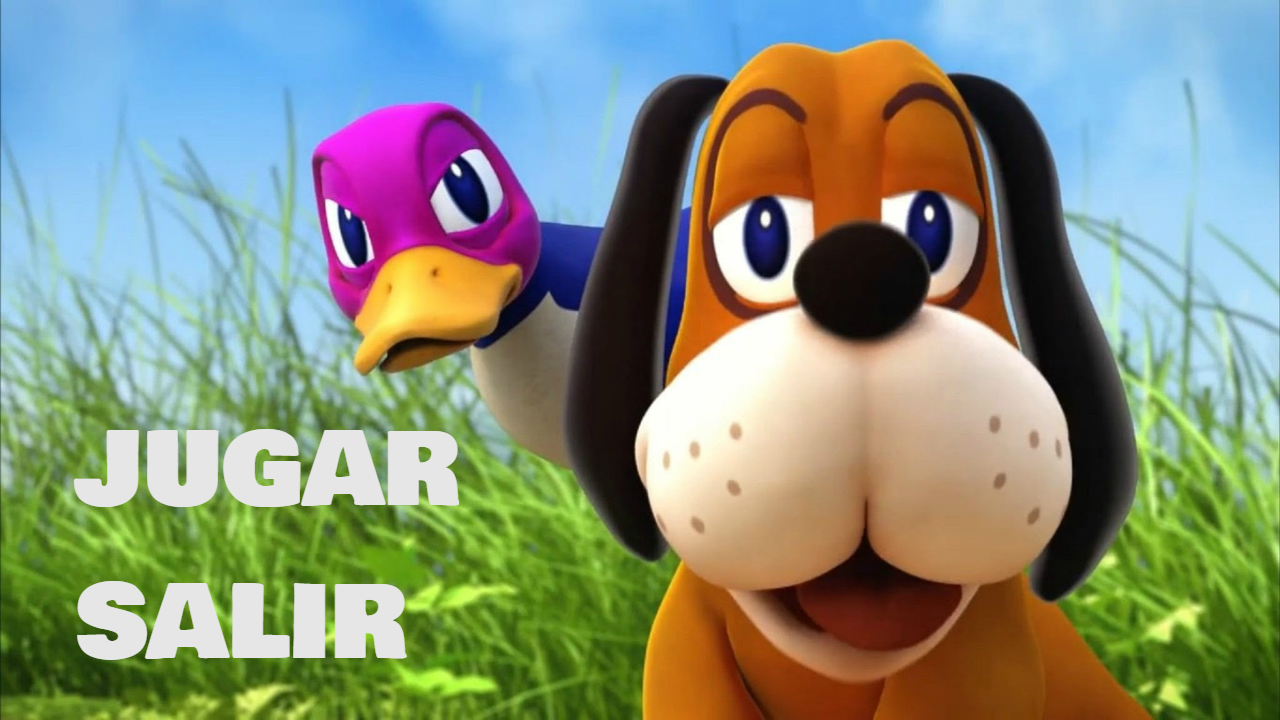
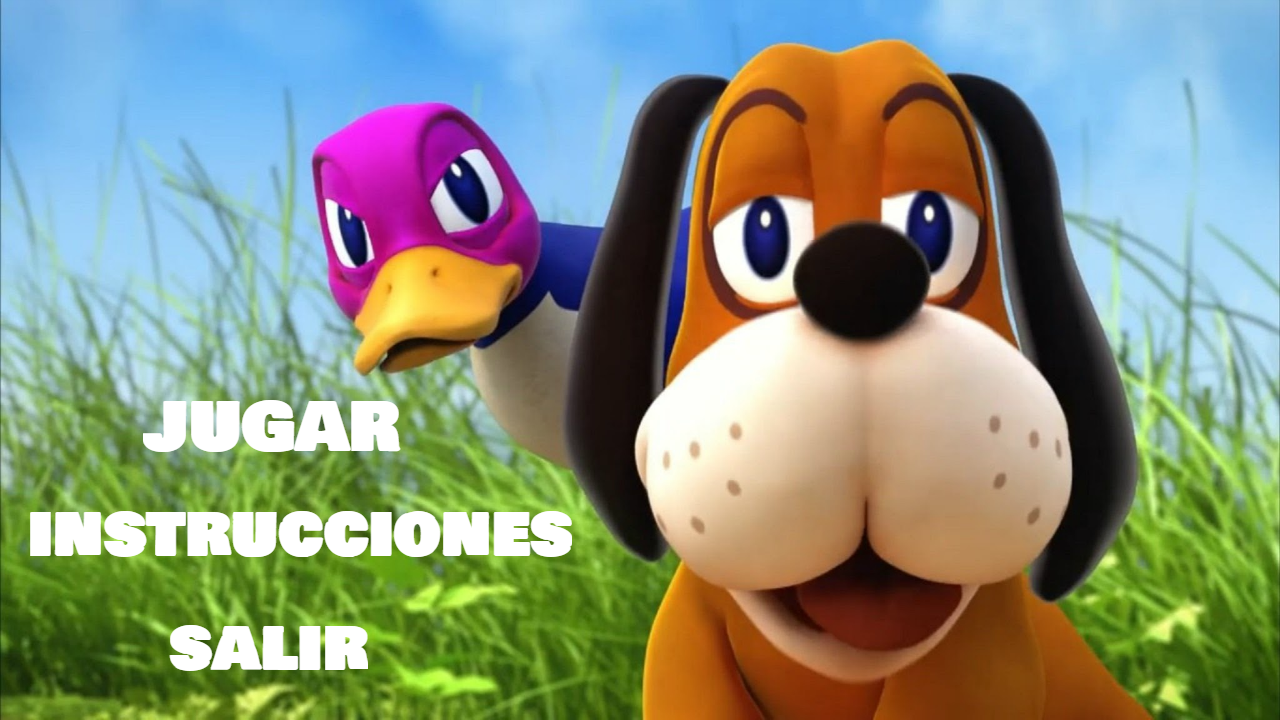
cambios mayores
ingreso de imagenes. Panel de instrucciones y panel para ingresar datos del jugador

Changed region(s): [[0.0, 0.55, 0.4688, 0.9472]]

diff --git a/proyectoJuego/src/main/java/views/MainFrame.java b/proyectoJuego/src/main/java/views/MainFrame.java
@@ -10,9 +10,13 @@ public class MainFrame extends JFrame implements GameListener
     private static final Dimension FRAMESIZE = new Dimension(1280, 720);
     private static final String ESCTOGOBACK = "pressEscape";
 
+    //Object of some classes.
     private Menu menuPanel;
+    private boolean playerDataEntry = false;
     private Game gamePanel;
-    private GoBackToMenu goBackAction;
+    private Player playerPanel;
+    private Instructions instructionsPanel;
+    private GoBackToMenu goBack; 
     public MainFrame()
     {
         initFrame();
@@ -34,36 +38,86 @@ public class MainFrame extends JFrame implements GameListener
         this.pack();
         this.setSize(FRAMESIZE);
         this.setLocationRelativeTo(null);
+        
         menuPanel = new Menu();
-        goBackAction = new GoBackToMenu();
         initPanel(menuPanel, true);
+        
+        instructionsPanel = new Instructions();
+        initPanel(instructionsPanel, false);
+        
+        playerPanel = new Player();
+        initPanel(playerPanel, false);
+        goBack = new GoBackToMenu();
+        
         menuPanel.addMouseListener(new MouseAdapter() 
         {
             @Override
             public void mousePressed(MouseEvent e)
             {
                 Point hitPoint = e.getPoint();
-                //entry to the game panel.
-                if (hitPoint.x > 120 && hitPoint.x < 430 && hitPoint.y > 440 && hitPoint.y < 490) 
+                //entry to player data.
+                if (hitPoint.x > 165 && hitPoint.x < 393 && hitPoint.y > 401 && hitPoint.y < 443) 
                 {
-                    gamePanel = new Game();
-                    initPanel(gamePanel, false);
-                    gamePanel.addListener(MainFrame.this);
-                    goBackAction.setPanel(gamePanel);
-                    gamePanel.getInputMap(JPanel.WHEN_IN_FOCUSED_WINDOW).
-                            put(KeyStroke.getKeyStroke(KeyEvent.VK_ESCAPE, 0), ESCTOGOBACK);
-                    gamePanel.getActionMap().put(ESCTOGOBACK, goBackAction);
-                    swapPanel(menuPanel, gamePanel);
+                    if (playerDataEntry == false) 
+                    {
+                    //entry to the game panel. 
+                    System.out.println("Registrando datos del jugador...");
+                    // it's called the setPanel method of the GoBackToMenu class.
+                    goBack.setPanel(playerPanel);
+                    // it's called the method to swap panel.
+                    swapPanel(menuPanel, playerPanel);
+                    playerDataEntry = true;  
+                    playerPanel.addMouseListener(new MouseAdapter() 
+                    {
+                        @Override
+                        public void mousePressed(MouseEvent e2)
+                        {
+                            Point hitPoint = e2.getPoint();
+                            // validate if the data entry was already done.
+                            if (playerDataEntry == true && hitPoint.x > 510 && hitPoint.x < 769 && hitPoint.y > 596 && hitPoint.y < 626) 
+                            {
+                                System.out.println("Entrando a juego dispara y programa...");
+                                gamePanel = new Game();
+                                initPanel(gamePanel, true);
+                                gamePanel.addListener(MainFrame.this);
+                                // it's called the setPanel method of the GoBackToMenu class
+                                goBack.setPanel(gamePanel);
+                                //it is disabled while the thread ends.
+                                goBack.setEnabled(false);
+                                // keyboard function to be returned from the panel with the ESC key.
+                                gamePanel.getInputMap(JPanel.WHEN_IN_FOCUSED_WINDOW).
+                                        put(KeyStroke.getKeyStroke(KeyEvent.VK_ESCAPE, 0), ESCTOGOBACK);
+                                gamePanel.getActionMap().put(ESCTOGOBACK, goBack);
+                                // it's called the method to swap panel.
+                                swapPanel(playerPanel, gamePanel);
+                            }
+                        }
+                     });
+                    }
                 } 
-                // Exit to the Game.
-                else if (hitPoint.x > 90 && hitPoint.x < 385 && hitPoint.y > 587 && hitPoint.y < 645) 
+                // valid to enter the instruction panel
+                else if (hitPoint.x > 41 && hitPoint.x < 556 && hitPoint.y > 518 && hitPoint.y < 545) 
                 {
+                    System.out.println("Entrando a instrucciones del juego...");
+                     // it's called the setPanel method of the GoBackToMenu class.
+                     goBack.setPanel(instructionsPanel);
+                    //keyboard function to be returned from the panel with the ESC key.
+                    instructionsPanel.getInputMap(JPanel.WHEN_IN_FOCUSED_WINDOW).
+                            put(KeyStroke.getKeyStroke(KeyEvent.VK_ESCAPE, 0), ESCTOGOBACK);
+                    instructionsPanel.getActionMap().put(ESCTOGOBACK, goBack);
+                    // it's called the method to swap panel.
+                    swapPanel(menuPanel, instructionsPanel);
+                }
+                // Exit to the Game.
+                else if (hitPoint.x > 186 && hitPoint.x < 357 && hitPoint.y > 632 && hitPoint.y < 657) 
+                {
+                    System.out.println("saliendo del juego...");
                     System.exit(0);
                 }
             }
         });
     }
-    
+ 
     // method to show and hide the panel
     private void initPanel(JPanel pPanel, boolean pValue) 
     {
@@ -83,15 +137,14 @@ public class MainFrame extends JFrame implements GameListener
     {
 
         private JPanel panel;
-
-        public GoBackToMenu() 
-        {
-        }
+        // default builder
+        public GoBackToMenu() {}
+        //method to receive the panel
         public void setPanel(JPanel pPanel)
         {
             this.panel = pPanel;
         }
-
+        //method to remove the current panel and move to the menu.
         @Override
         public void actionPerformed(ActionEvent e) 
         {
@@ -105,10 +158,10 @@ public class MainFrame extends JFrame implements GameListener
                     MainFrame.this.invalidate();
                     MainFrame.this.validate();
                 } 
-//                else if (panel.equals(instructionsPanel)) 
-//                {
-//                    swapPanel(panel, menuPanel);
-//                }
+                else if (panel.equals(instructionsPanel)) 
+                {
+                    swapPanel(panel, menuPanel);
+                }
             }
         }
     }

diff --git a/proyectoJuego/src/main/java/views/Instructions.java b/proyectoJuego/src/main/java/views/Instructions.java
@@ -1,0 +1,36 @@
+package views;
+import assets.Resources;
+import java.awt.*;
+import java.awt.image.*;
+import javax.swing.*;
+/**
+
+ */
+public class Instructions extends JPanel
+{
+    //Change the mouse cursor.
+     private static final Cursor HAND_CURSOR = new Cursor(Cursor.HAND_CURSOR);
+     // off screen buffer.
+     private BufferedImage backgroundImg;
+     
+    public Instructions()
+    {
+        init();
+    }
+    private void init()
+    {
+         this.setLayout(null);
+        //we add image
+        backgroundImg = Resources.getImage("/images/instructions.png");
+        this.setCursor(HAND_CURSOR);
+    }
+    
+    // method to paint a BufferedImage
+    @Override
+    protected void paintComponent(Graphics g) 
+    {
+        Graphics2D g2D = (Graphics2D) g;
+        g2D.setRenderingHint(RenderingHints.KEY_ANTIALIASING, RenderingHints.VALUE_ANTIALIAS_ON);
+        g2D.drawImage(backgroundImg, 0, 0, getParent());
+    }
+}

diff --git a/proyectoJuego/src/main/java/views/Player.java b/proyectoJuego/src/main/java/views/Player.java
@@ -3,22 +3,24 @@ import assets.Resources;
 import java.awt.*;
 import java.awt.image.*;
 import javax.swing.*;
-//this is class de menu with an inheritance jpanel
-public class Menu extends JPanel
+
+/**
+ */
+public class Player extends JPanel
 {
     private BufferedImage backgroundImg;
-    //this is builder
-    public Menu() 
+    public JTextField inputName, inputCountry;
+    public Player() 
     {
         init();
     }
-    private void init() 
+    private void init()
     {
-        this.setLayout(null);
+         this.setLayout(null);
         //we add image
-        backgroundImg = Resources.getImage("/images/menuBackground.png");
+        backgroundImg = Resources.getImage("/images/DataPlayer.png");
     }
-    //method
+    // method to paint a BufferedImage
     @Override
     protected void paintComponent(Graphics g) 
     {
